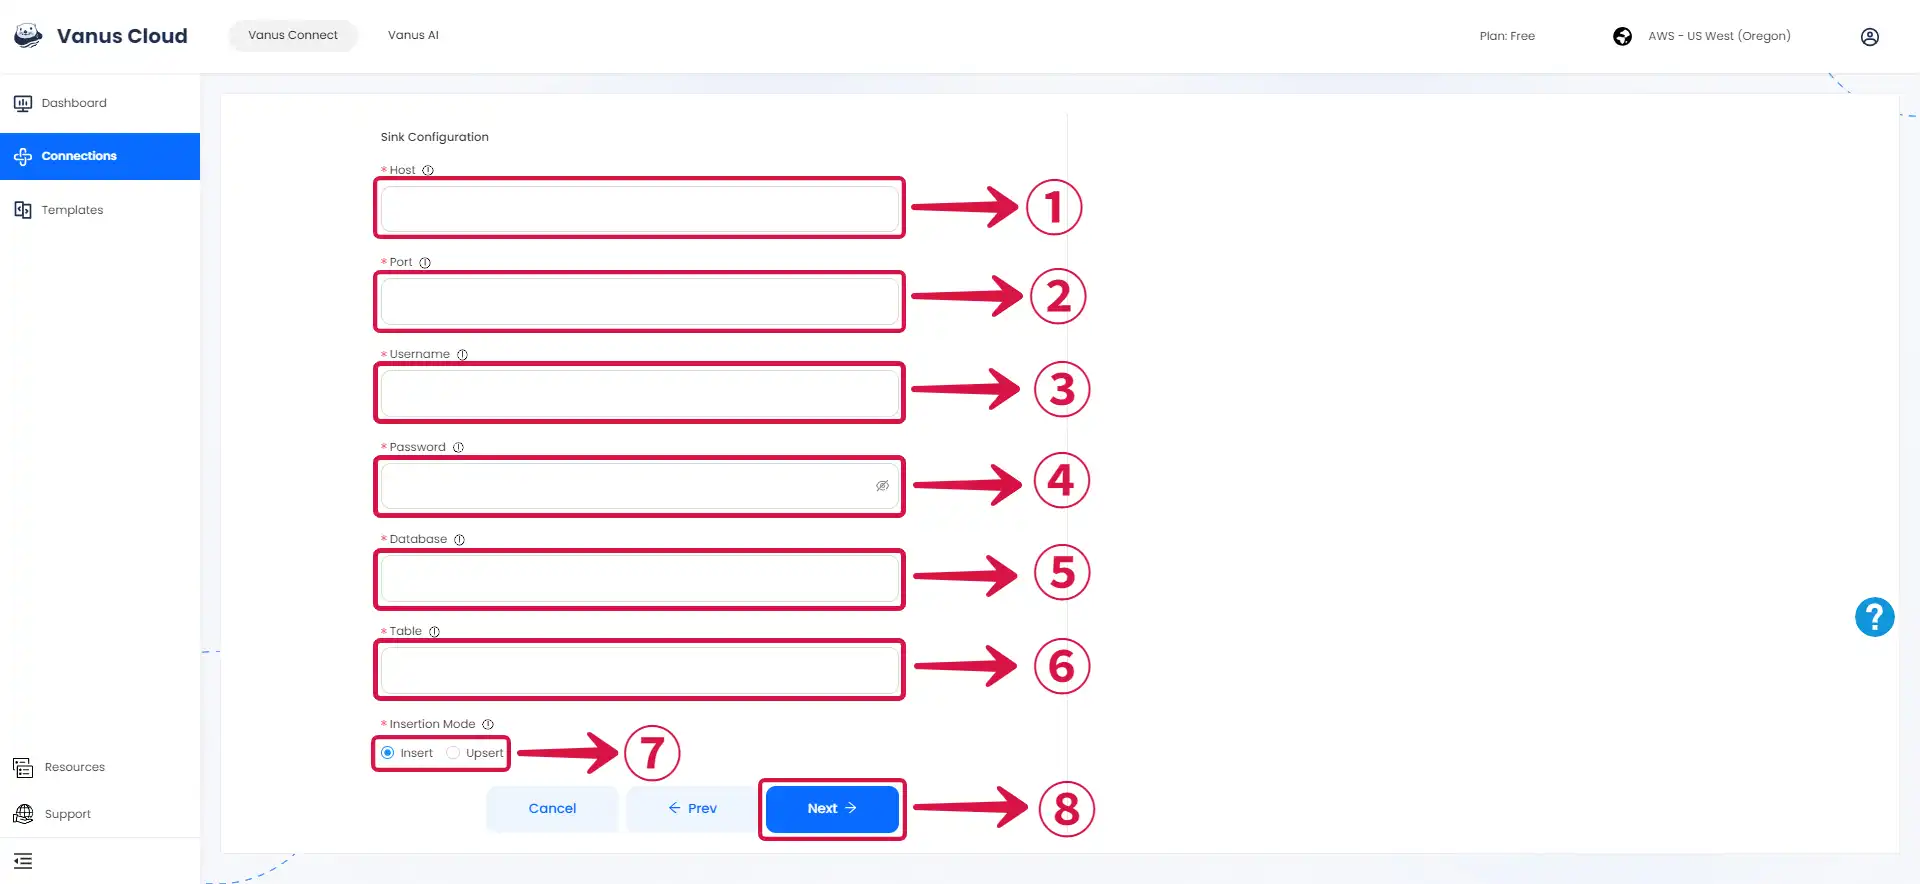
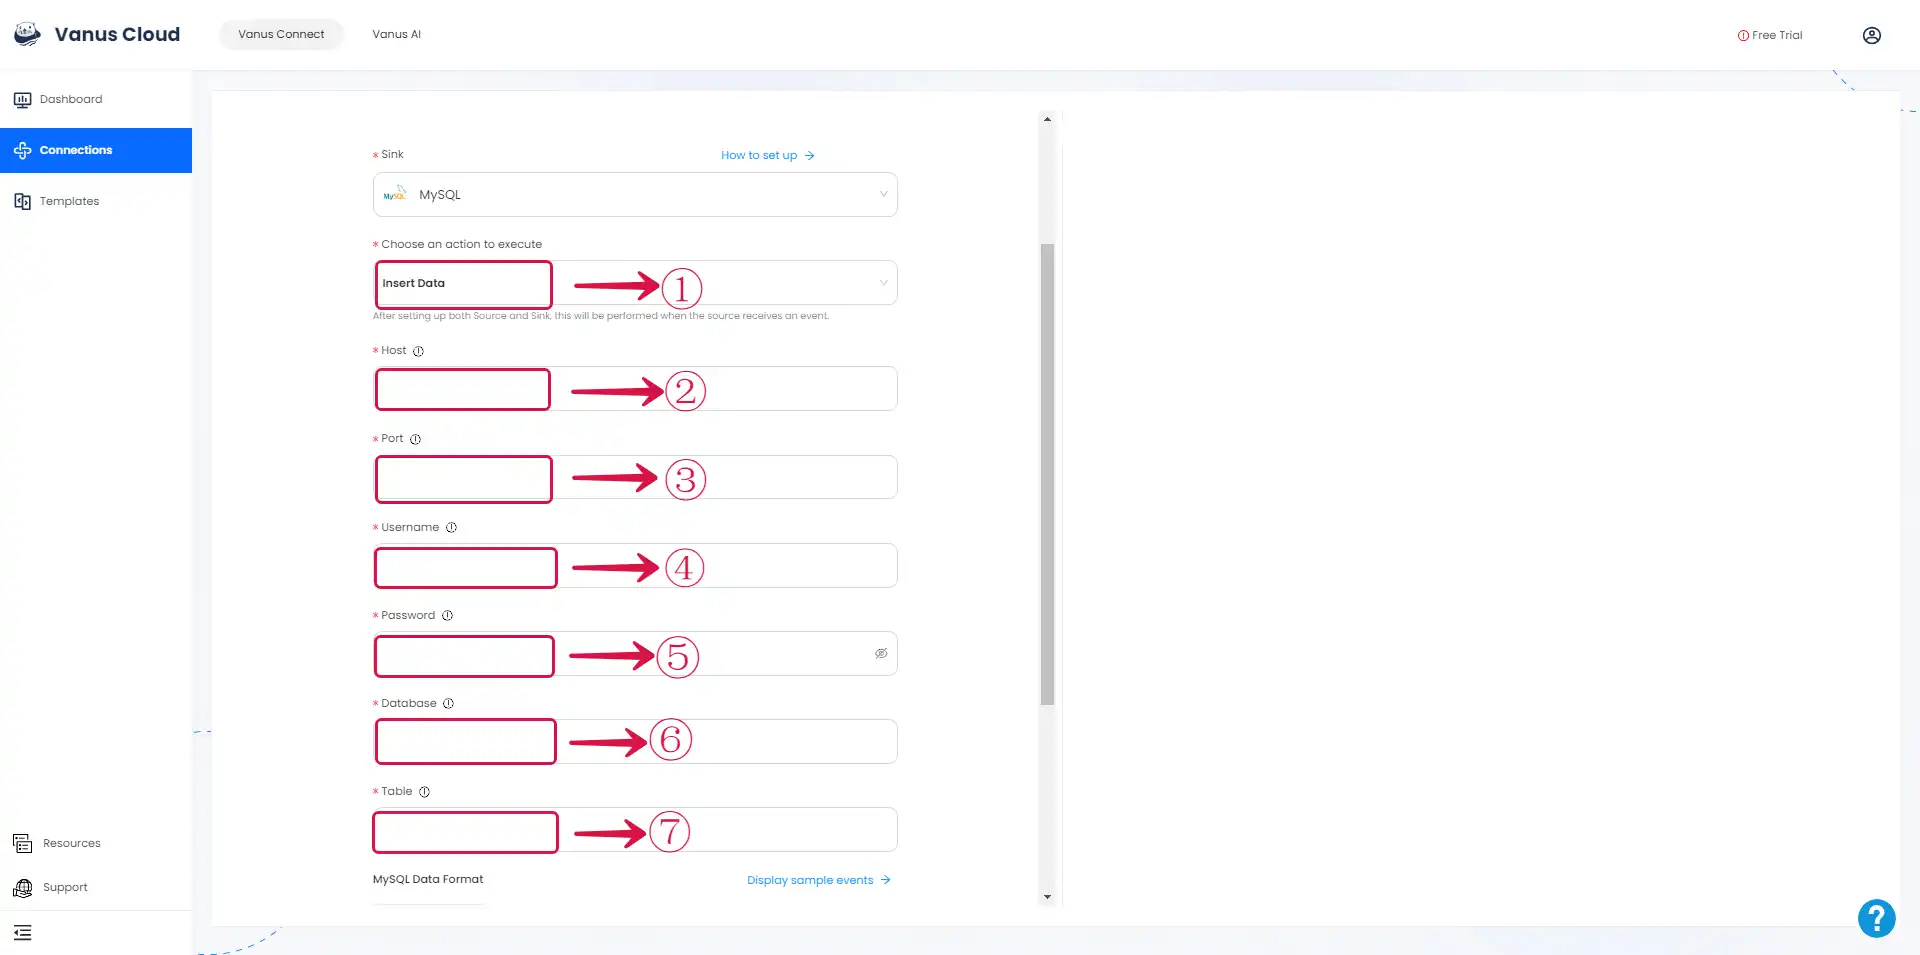
docs: Update MySQL Sink Docs (#692)

diff --git a/content/vanus-connect/connector-guides/sink/mysql/setup.md b/content/vanus-connect/connector-guides/sink/mysql/setup.md
@@ -7,6 +7,7 @@ This guide contains information required in setting up an MySQL Sink in Vanus Co
 MySQL is a popular open-source relational database management system used to store, organize, and retrieve data for websites, applications, and other software.
 
 Vanus Connect's MySQL sink connector simplifies the process of transferring data/events from various sources to a MySQL database/table, with configurable filters and upsert/insert modes.
+
 ## Prerequisites
 
 Before forwarding events to MySQL, you must have:
@@ -15,25 +16,28 @@ Before forwarding events to MySQL, you must have:
 - Have a running MySQL server.
 - Have a Database and Table created.
 
-**Perform the following steps to configure your MySQL Sink.**
+**Perform the following step to configure your MySQL Sink.**
 
 ### Step 1: Create a Connection
 
 Enter all the following information in Vanus Connect.
 
+- **Choose the action to execute**①
+- **Host**② - The IP address of your MySQL Server.
+- **Port**③ - The Port of your MySQL Server: 3306.
+- **Username**④ - A Username with the following permissions INSERT, UPDATE, DELETE.
+- **Password**⑤ - The user password.
+- **Database**⑥ - The database name.
+- **Table**⑦ - The table name.
+
 ![mysql_sink_4.webp](images/mysql_sink_4.webp)
 
-- **Host**① - The IP address of your MySQL Server.
-- **Port**② - The Port of your MySQL Server: 3306.
-- **Username**③ - A Username with the following permissions INSERT, UPDATE, DELETE.
-- **Password**④ - The user password.
-- **Database**⑤ - The database name.
-- **Table**⑥ - The table name.
-- Choose the **insertion mode**⑦.
-- Click on **Next**⑧ to continue the configuration.
 
+### Personalize Event Structure
 
-### Step 2: MySQL Connection Settings
+:::note
+This is a general instruction on how to personalize your event structure. You can structure your events to suit your specific requirements and create connections for different scenarios.
+:::
 
 1. Click on **Display sample events**① for reference and click on **Add More**② to add events.
 
@@ -46,10 +50,6 @@ Enter all the following information in Vanus Connect.
 3. You can fill in as many **key-value pairs**⑤ as you wish to receive. Click **Submit**⑥ to finish the configuration process.
 
 ![mysql_sink_2.webp](images/mysql_sink_2.webp)
-
-:::note
-You can structure your events to suit your specific requirements, create connections for different scenarios, or take advantage of our pre-existing connection templates for a more organized approach to sending events.
-:::
 
 ---
 

diff --git a/content/cloud-docs/sink/mysql/setup.md b/content/cloud-docs/sink/mysql/setup.md
@@ -17,19 +17,22 @@ hide_title: true
 
 Enter all the following information in Vanus Connect.
 
+- **Choose the action to execute**①
+- **Host**② - The IP address of your MySQL Server.
+- **Port**③ - The Port of your MySQL Server: 3306.
+- **Username**④ - A Username with the following permissions INSERT, UPDATE, DELETE.
+- **Password**⑤ - The user password.
+- **Database**⑥ - The database name.
+- **Table**⑦ - The table name.
+
 ![mysql_sink_4.webp](images/mysql_sink_4.webp)
 
-- **Host**① - The IP address of your MySQL Server.
-- **Port**② - The Port of your MySQL Server: 3306.
-- **Username**③ - A Username with the following permissions INSERT, UPDATE, DELETE.
-- **Password**④ - The user password.
-- **Database**⑤ - The database name.
-- **Table**⑥ - The table name.
-- Choose the **insertion mode**⑦.
-- Click on **Next**⑧ to continue the configuration.
 
+### Personalize Event Structure
 
-### Step 2: MySQL Connection Settings
+:::note
+This is a general instruction on how to personalize your event structure. You can structure your events to suit your specific requirements and create connections for different scenarios.
+:::
 
 1. Click on **Display sample events**① for reference and click on **Add More**② to add events.
 
@@ -43,9 +46,6 @@ Enter all the following information in Vanus Connect.
 
 ![mysql_sink_2.webp](images/mysql_sink_2.webp)
 
-:::note
-You can structure your events to suit your specific requirements, create connections for different scenarios, or take advantage of our pre-existing connection templates for a more organized approach to sending events.
-:::
 
 ---
 
